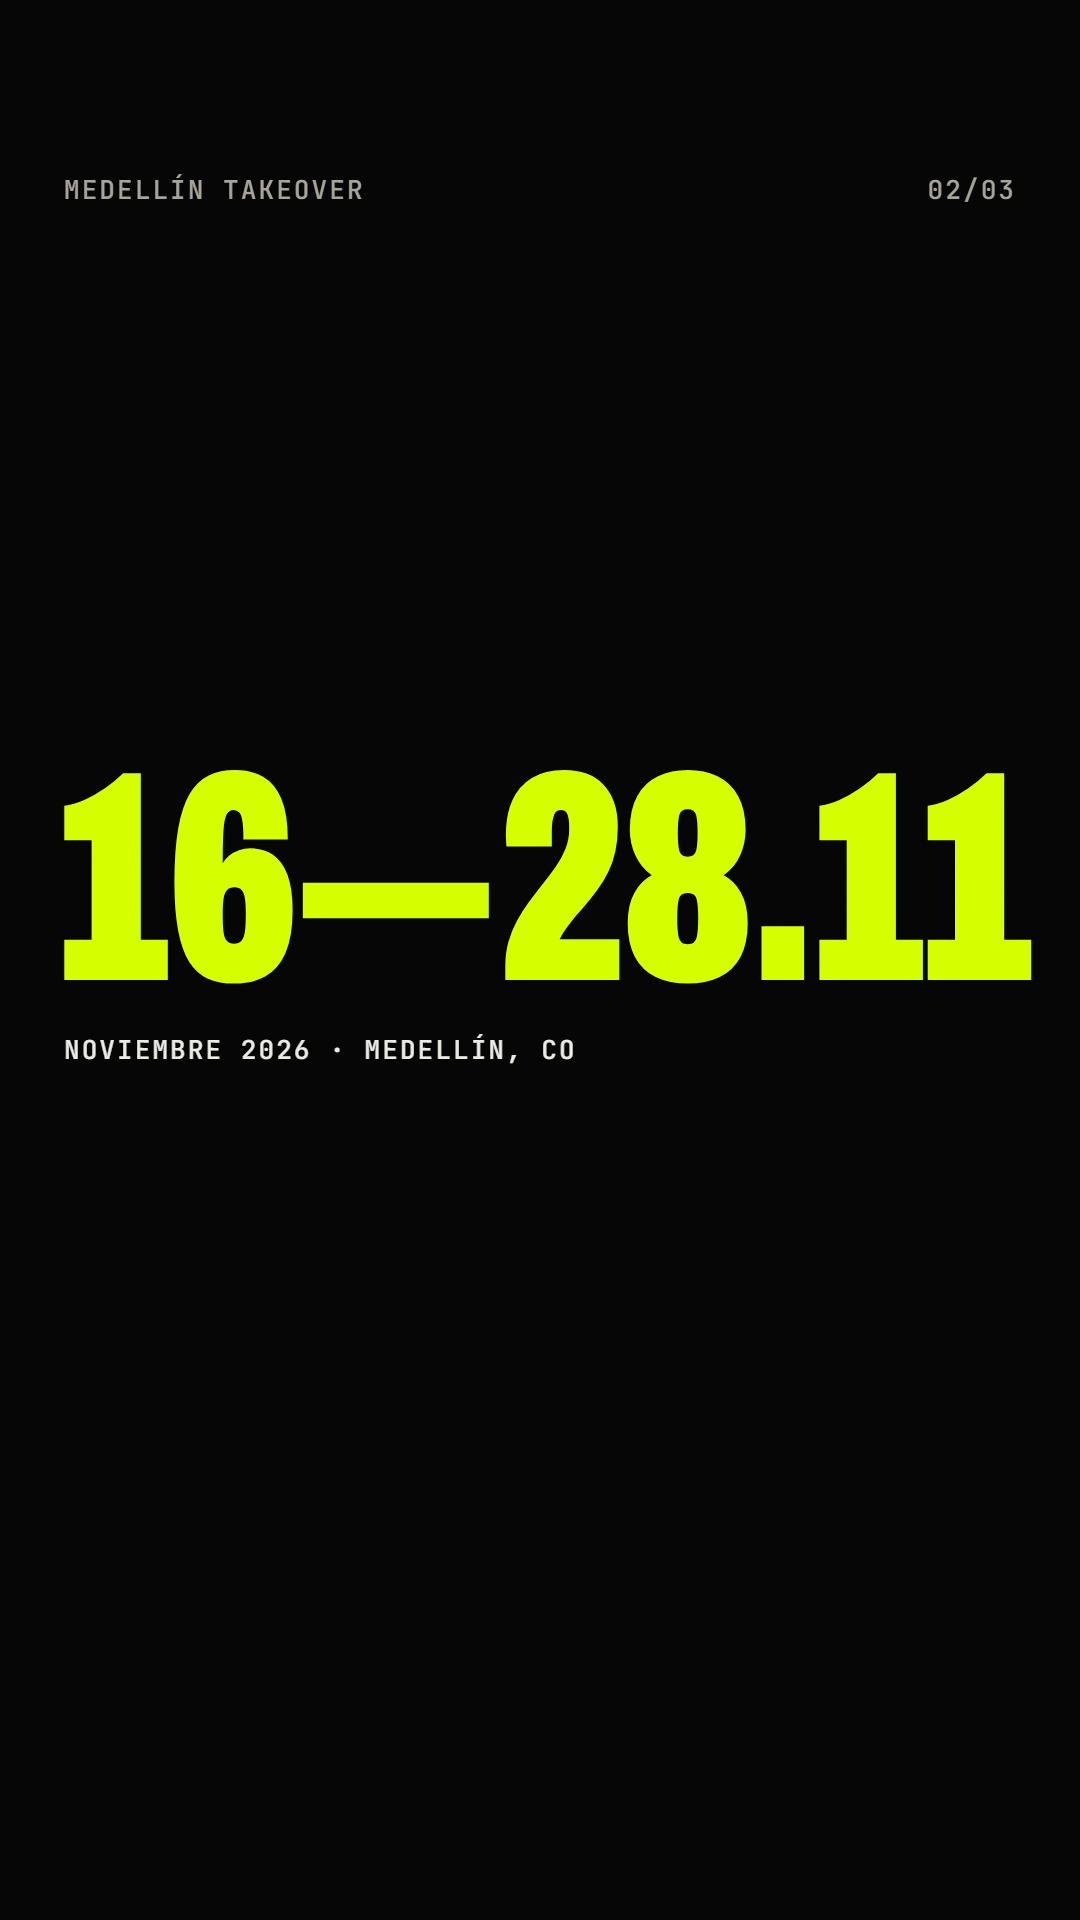
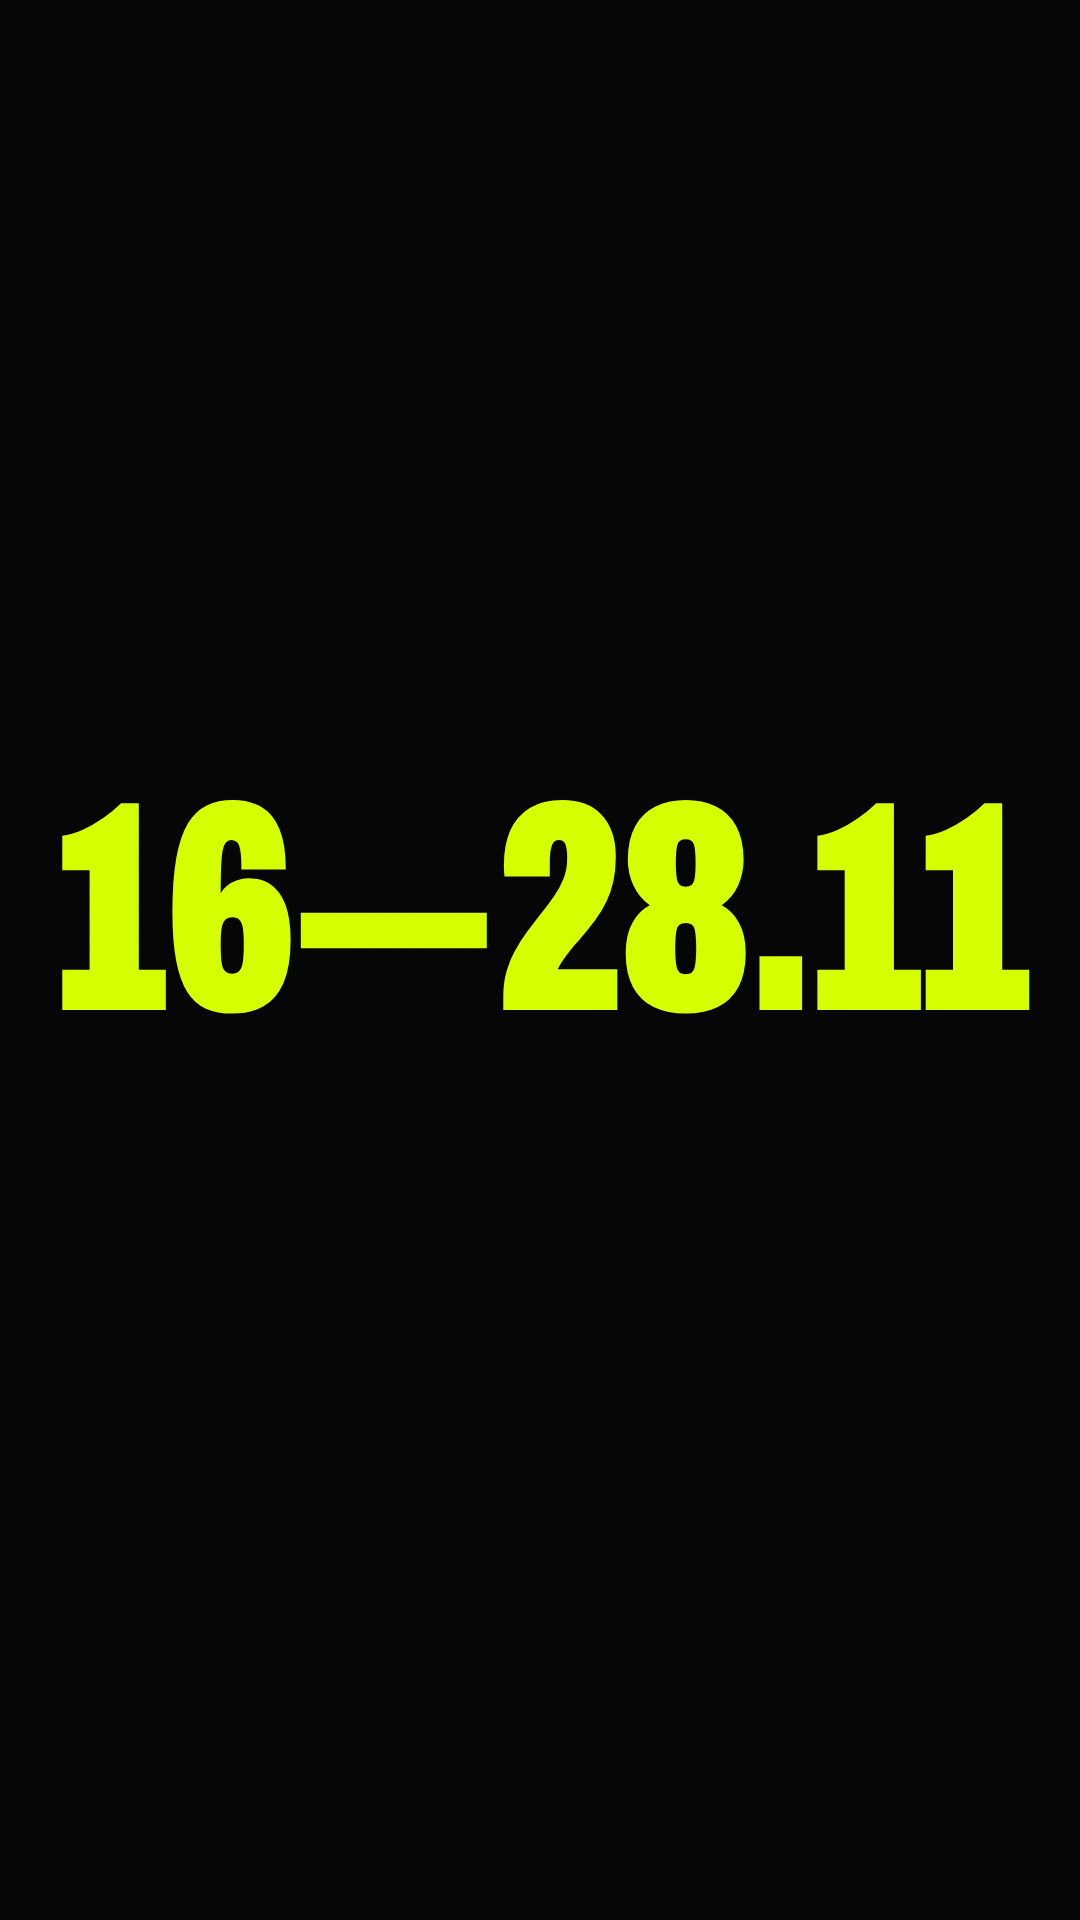
Takeover: versión más limpia, sin etiquetas pequeñas y título grande en la portada

diff --git a/ig/src/piece.html b/ig/src/piece.html
@@ -169,57 +169,38 @@ body{color:var(--bone);font-family:var(--cond);-webkit-font-smoothing:antialiase
 <style>
 .mt .dk{position:absolute;inset:0;background:var(--acid)}
 .mt .dk img{width:100%;height:100%;object-fit:cover;filter:grayscale(1) contrast(1.45) brightness(.92);mix-blend-mode:multiply}
-.mt .sm{position:absolute;font:500 26px/1.5 var(--mono);letter-spacing:.08em;text-transform:uppercase}
-.mt .ink{color:var(--ink)}
-.mt .big{font-weight:900;font-variation-settings:"wdth" 62;line-height:.8;letter-spacing:-.01em;margin:0}
+.mt .big{position:absolute;left:56px;right:56px;font-weight:900;font-variation-settings:"wdth" 62;text-transform:uppercase;line-height:.8;letter-spacing:-.01em;margin:0;white-space:nowrap}
+.mt .owl-ink{position:absolute;width:120px;filter:invert(1)}
 </style>
 
-<!-- 1 · Tú, duotono ácido -->
+<!-- 1 · Portada -->
 <section class="piece mt" id="m1">
-  <div class="dk"><img src="img/david-green.webp" style="object-position:50% 20%"></div>
-  <span class="sm ink" style="left:64px;top:60px">Da Get Up</span>
-  <span class="sm ink" style="right:64px;top:60px">01/03</span>
-  <span class="sm" style="left:64px;bottom:60px;background:var(--ink);color:var(--acid);padding:8px 14px">Medellín Takeover</span>
+  <div class="dk" style="bottom:470px"><img src="img/david-green.webp" style="object-position:50% 12%"></div>
+  <img class="owl-ink" src="../../assets/img/owl.png" style="left:60px;top:60px">
+  <p class="big" style="bottom:56px;font-size:270px;color:var(--acid)">Medellín<br>Takeover</p>
 </section>
 <section class="piece story mt" id="n1">
-  <div class="dk"><img src="img/david-green.webp" style="object-position:50% 20%"></div>
-  <span class="sm ink" style="left:64px;top:170px">Da Get Up</span>
-  <span class="sm ink" style="right:64px;top:170px">01/03</span>
-  <span class="sm" style="left:64px;bottom:300px;background:var(--ink);color:var(--acid);padding:8px 14px">Medellín Takeover</span>
+  <div class="dk" style="bottom:720px"><img src="img/david-green.webp" style="object-position:50% 12%"></div>
+  <img class="owl-ink" src="../../assets/img/owl.png" style="left:60px;top:170px">
+  <p class="big" style="bottom:300px;font-size:270px;color:var(--acid)">Medellín<br>Takeover</p>
 </section>
 
 <!-- 2 · La fecha -->
 <section class="piece mt" id="m2">
-  <span class="sm" style="left:64px;top:60px;color:var(--mute)">Medellín Takeover</span>
-  <span class="sm" style="right:64px;top:60px;color:var(--mute)">02/03</span>
-  <p class="big acid" style="position:absolute;left:58px;top:430px;font-size:300px">16—28.11</p>
-  <span class="sm" style="left:64px;top:700px;color:var(--bone)">Noviembre 2026 · Medellín, CO</span>
+  <p class="big acid" style="top:470px;font-size:300px">16—28.11</p>
 </section>
 <section class="piece story mt" id="n2">
-  <span class="sm" style="left:64px;top:170px;color:var(--mute)">Medellín Takeover</span>
-  <span class="sm" style="right:64px;top:170px;color:var(--mute)">02/03</span>
-  <p class="big acid" style="position:absolute;left:58px;top:760px;font-size:300px">16—28.11</p>
-  <span class="sm" style="left:64px;top:1030px;color:var(--bone)">Noviembre 2026 · Medellín, CO</span>
+  <p class="big acid" style="top:790px;font-size:300px">16—28.11</p>
 </section>
 
-<!-- 3 · Formatos + booking -->
+<!-- 3 · Booking -->
 <section class="piece mt" id="m3">
-  <div class="dk" style="bottom:470px"><img src="img/david-fog.webp" style="object-position:50% 40%"></div>
-  <span class="sm ink" style="right:64px;top:60px">03/03</span>
-  <div style="position:absolute;left:64px;right:64px;bottom:60px">
-    <p class="sm" style="position:static;margin:0;color:var(--bone)">Live act · DJ set · Showcase</p>
-    <p class="sm" style="position:static;margin:6px 0 0;color:var(--mute)">Venues por anunciar</p>
-    <p class="sm" style="position:static;margin:44px 0 0;color:var(--acid)">Booking → link en bio</p>
-  </div>
+  <div class="dk" style="bottom:400px"><img src="img/david-fog.webp" style="object-position:50% 30%"></div>
+  <p class="big" style="bottom:56px;font-size:200px;color:var(--acid)">Booking<br>abierto</p>
 </section>
 <section class="piece story mt" id="n3">
-  <div class="dk" style="bottom:760px"><img src="img/david-fog.webp" style="object-position:50% 40%"></div>
-  <span class="sm ink" style="right:64px;top:170px">03/03</span>
-  <div style="position:absolute;left:64px;right:64px;bottom:420px">
-    <p class="sm" style="position:static;margin:0;color:var(--bone)">Live act · DJ set · Showcase</p>
-    <p class="sm" style="position:static;margin:6px 0 0;color:var(--mute)">Venues por anunciar</p>
-    <p class="sm" style="position:static;margin:44px 0 0;color:var(--acid)">Booking → link abajo</p>
-  </div>
+  <div class="dk" style="bottom:660px"><img src="img/david-fog.webp" style="object-position:50% 30%"></div>
+  <p class="big" style="bottom:400px;font-size:200px;color:var(--acid)">Booking<br>abierto</p>
 </section>
 
 <script>
